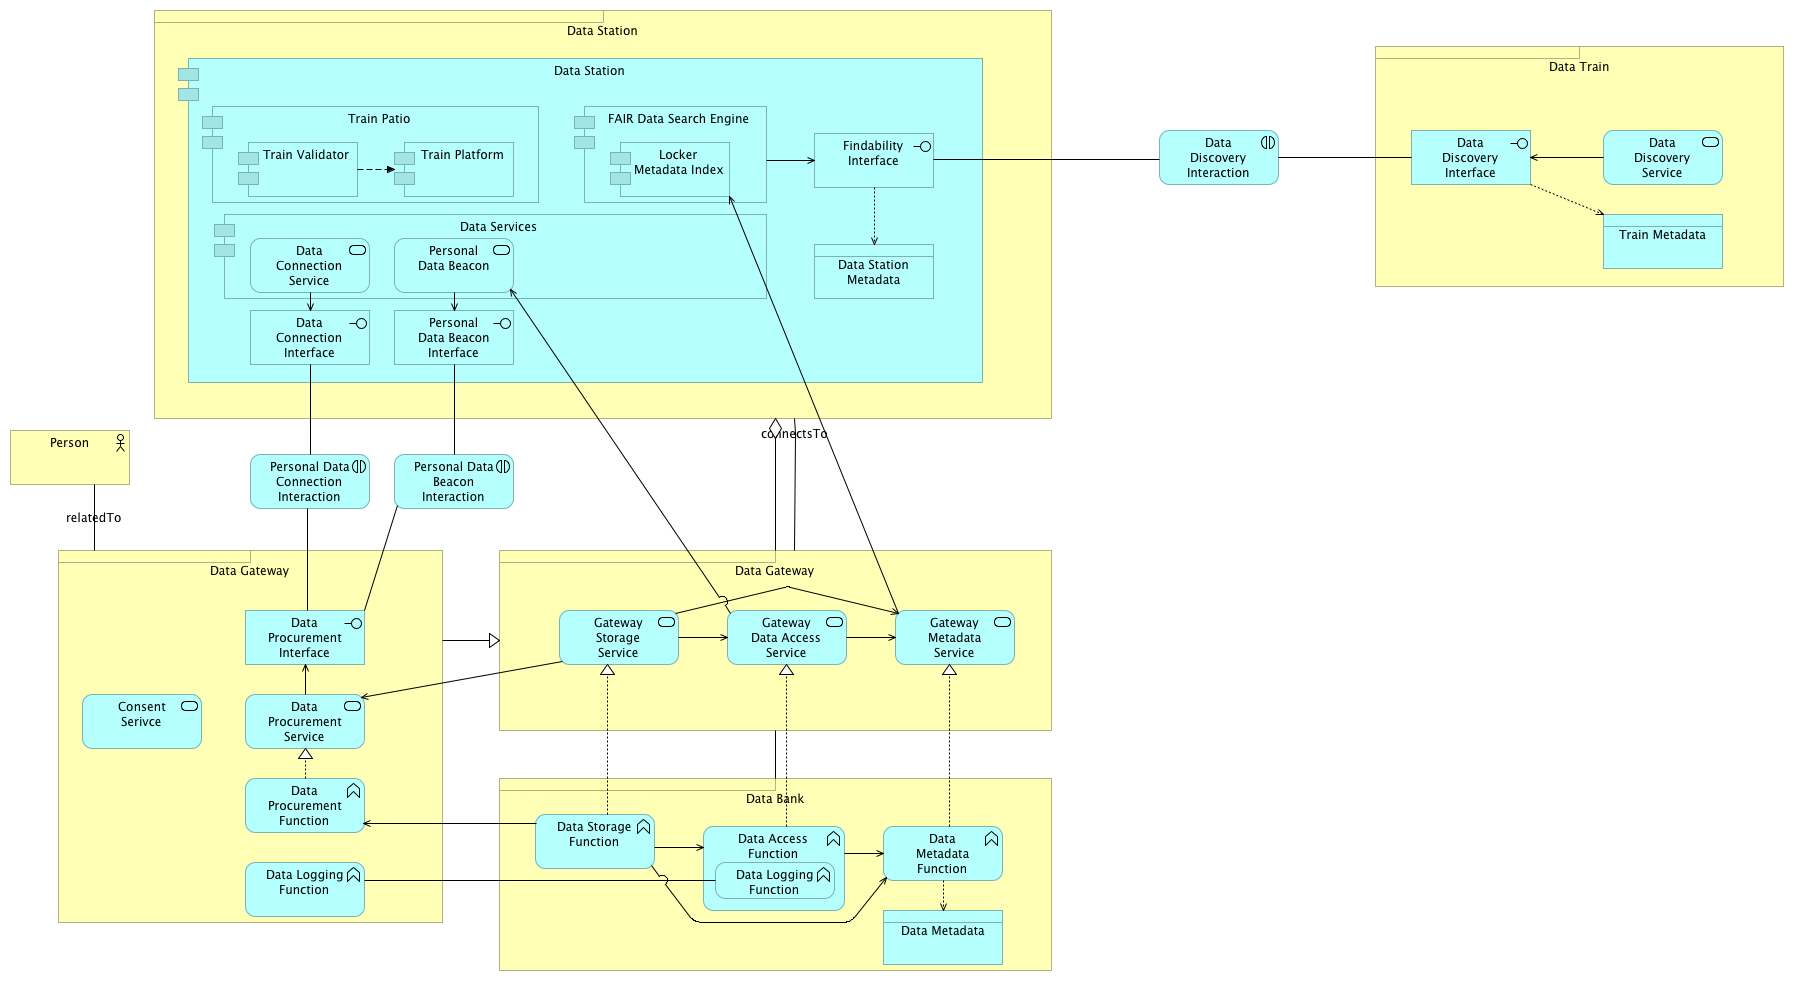
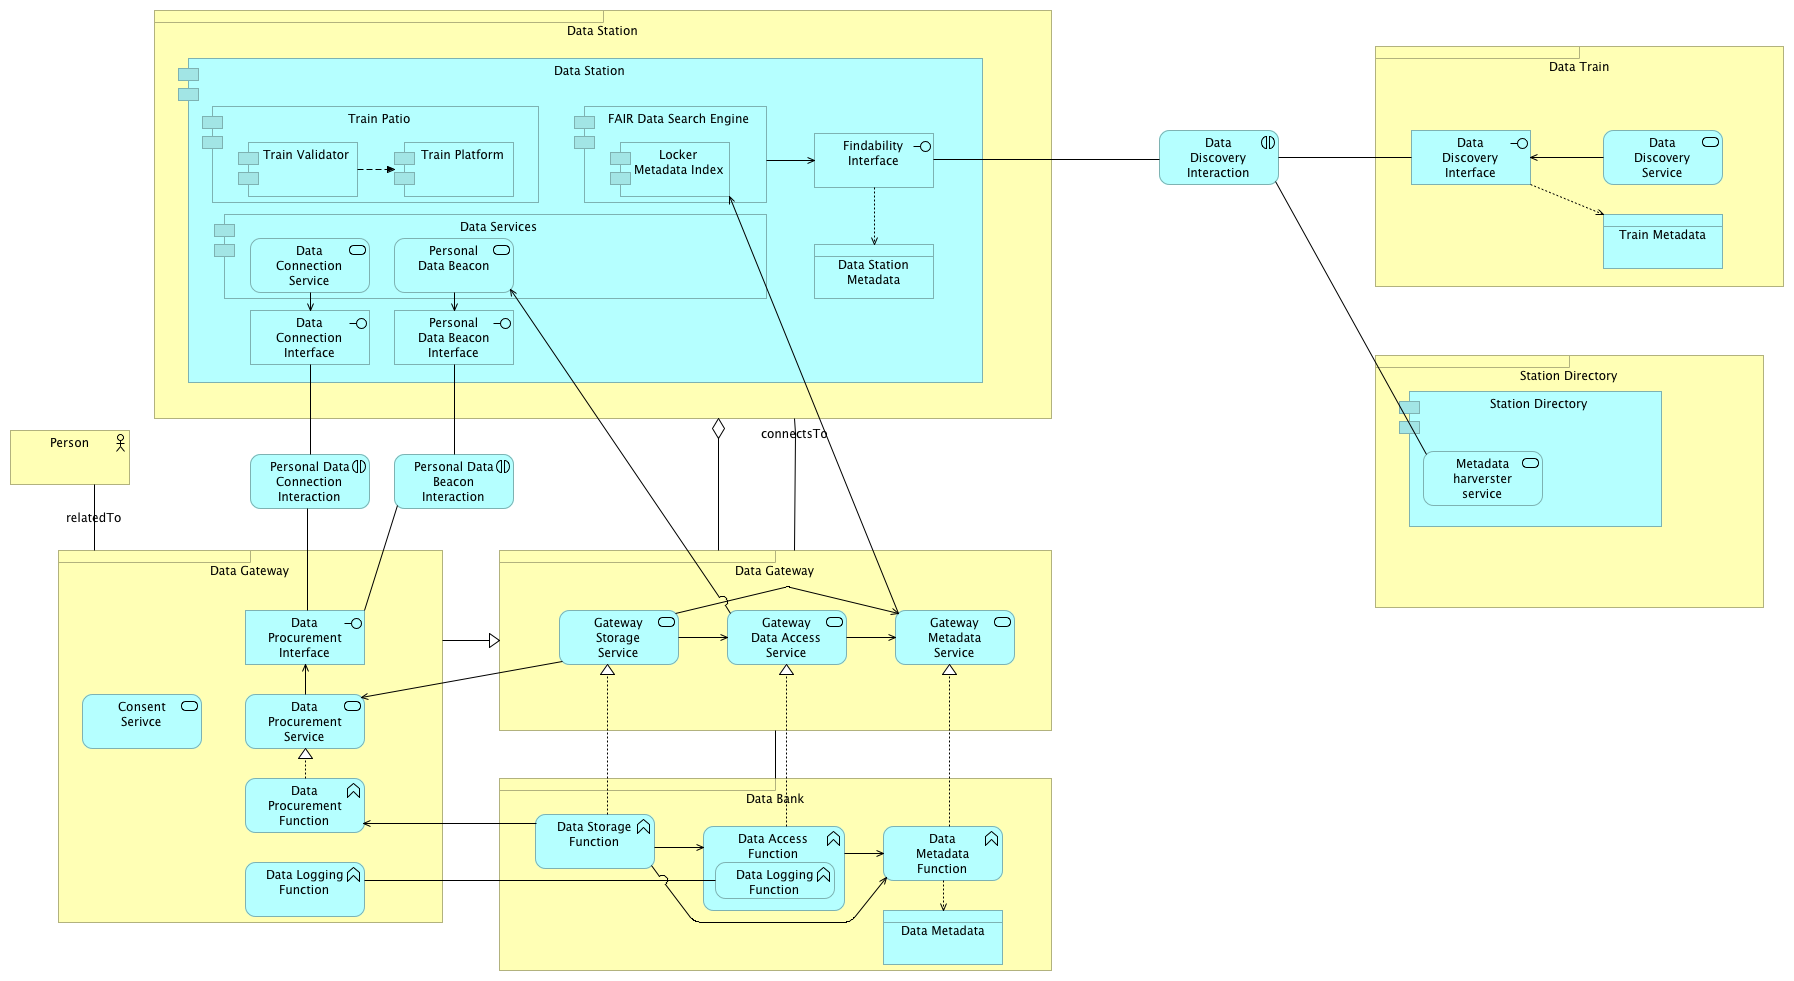
Added Station Directory component, which indexes the metadata of all Data Stations. Added the Train in the Overview view.

Changed region(s): [[0.7492, 0.3364, 0.9989, 0.6422]]

diff --git a/docs/index.html b/docs/index.html
@@ -74,6 +74,8 @@
 													<li class="tree-element"><a href="18975096/elements/b77b827f-7911-46f6-ac07-5fd40ea79f01.html" target="element"> Person </a></li>
 													<li class="tree-element"><a href="18975096/elements/a9bf6516-f5cb-45e1-b8aa-5176f3e6b6ac.html" target="element"> Individual </a></li>
 													<li class="tree-element"><a href="18975096/elements/7a7bc2fb-1184-4866-b09d-8d2767db0e39.html" target="element"> Organization </a></li>
+													<li class="tree-element"><a href="18975096/elements/18199ac6-f56e-410a-8998-632ff5206b83.html" target="element"> Train </a></li>
+													<li class="tree-element"><a href="18975096/elements/7a3dba25-63f0-4d48-bc35-c40f99dd6f59.html" target="element"> Station Directory </a></li>
 
 									</ul>
 								</li>
@@ -119,6 +121,8 @@
 													<li class="tree-element"><a href="18975096/elements/0ca65824-3f4d-46b8-8a5d-51b9d7eab5b5.html" target="element"> Data Logging Function </a></li>
 													<li class="tree-element"><a href="18975096/elements/c86b78a3-92ca-4c30-be73-12e46e800ec8.html" target="element"> Consent Serivce </a></li>
 													<li class="tree-element"><a href="18975096/elements/9cad01f8-9d59-44f8-b6b6-eb078401e0a8.html" target="element"> Data Logging Function </a></li>
+													<li class="tree-element"><a href="18975096/elements/a9479872-1a71-4880-8bd9-1656401d77b0.html" target="element"> Station Directory </a></li>
+													<li class="tree-element"><a href="18975096/elements/da94157c-d06b-48f5-8b85-5fe8aaf5124c.html" target="element"> Metadata harverster service </a></li>
 
 									</ul>
 								</li>
@@ -476,6 +480,26 @@
 															owner
 														(Data Gateway - Individual) 
 													</a></li>
+													<li class="tree-element"><a href="18975096/elements/27352bcf-d7f0-49c3-b37f-3226e21d4105.html" target="element">
+															visits
+														(Train - Data Station) 
+													</a></li>
+													<li class="tree-element"><a href="18975096/elements/0ffd2520-fb2f-4c2e-985e-f1d41b450948.html" target="element">
+															owner
+														(Train - Data Consumer) 
+													</a></li>
+													<li class="tree-element"><a href="18975096/elements/3b7cca8d-d181-49bb-b4a7-923afe4492fc.html" target="element">
+															<span class="i18n-elementtype-RealizationRelationship"></span>
+														(Station Directory - Station Directory) 
+													</a></li>
+													<li class="tree-element"><a href="18975096/elements/536baa3f-5a0f-44e7-88c1-cb4f16b57ba7.html" target="element">
+															<span class="i18n-elementtype-AssignmentRelationship"></span>
+														(Station Directory - Metadata harverster service) 
+													</a></li>
+													<li class="tree-element"><a href="18975096/elements/40ec6dbd-855a-4c7b-b05f-0d9ffc541ae0.html" target="element">
+															<span class="i18n-elementtype-AssociationRelationship"></span>
+														(Metadata harverster service - Data Discovery Interaction) 
+													</a></li>
 
 									</ul>
 								</li>
@@ -486,7 +510,7 @@
 											<li class="tree-element"><a href="18975096/views/dc262ab7.html" target="view"> Stakeholders collaborations </a></li>
 											<li class="tree-element"><a href="18975096/views/ba792f1b.html" target="view"> Overview </a></li>
 											<li class="tree-element"><a href="18975096/views/6e58a049.html" target="view"> Train Station business interaction </a></li>
-											<li class="tree-element"><a href="18975096/views/49a7dba6.html" target="view"> Personal Locker architecture </a></li>
+											<li class="tree-element"><a href="18975096/views/49a7dba6.html" target="view"> PHT architecture </a></li>
 											<li class="tree-element"><a href="18975096/views/cc7aa561-84b8-48c2-946c-d18906b2198b.html" target="view"> Data Station </a></li>
 											<li class="tree-element"><a href="18975096/views/6e323455-c3be-48af-a0d8-d24b7034d748.html" target="view"> Data Gateway </a></li>
 											<li class="tree-element"><a href="18975096/views/27796bab-51c9-45c5-ab29-54ffbba73074.html" target="view"> Data Procurement </a></li>

diff --git a/docs/18975096/views/49a7dba6.html b/docs/18975096/views/49a7dba6.html
@@ -2,7 +2,7 @@
 <html class="frame" lang="en">
 <head>
 	<meta http-equiv="Content-Type" content="text/html;charset=utf-8">
-	<title>Personal Locker architecture</title>
+	<title>PHT architecture</title>
 
 	<!-- JQUERY (use 1.x branch to be compatible with IE 6/7/8) -->
 	<script type="text/javascript" src="../../lib/jquery/js/jquery-1.11.2.min.js"></script>
@@ -20,12 +20,12 @@
 <body>
 	<div class="panel panel-default root-panel">
 		<div class="panel-heading root-panel-heading">
-			<b>Personal Locker architecture</b>
+			<b>PHT architecture</b>
 			(<span class="i18n-viewpoint-"></span>)
 			<a class="glyphicon glyphicon-info-sign" id="hint-viewpoint_" target="hint"></a>
 		</div>
 		<div class="panel-body root-panel-body">
-			<img class="diagram" src="../images/49a7dba6.png" alt="Personal Locker architecture" usemap="#49a7dba6map">
+			<img class="diagram" src="../images/49a7dba6.png" alt="PHT architecture" usemap="#49a7dba6map">
 			<map name="49a7dba6map">
 								<area shape="rect" coords="559,610,679,665" href="../elements/0c1964f8.html"  target="element">
 								<area shape="rect" coords="727,610,847,665" href="../elements/4a003706.html"  target="element">
@@ -75,6 +75,11 @@
 
 						<area shape="rect" coords="499,778,1052,971" href="../elements/e4b6320b-6e30-4e23-ab18-71f546f726e0.html"  target="element">
 						<area shape="rect" coords="10,430,130,485" href="../elements/b77b827f-7911-46f6-ac07-5fd40ea79f01.html"  target="element">
+										<area shape="rect" coords="1423,451,1543,506" href="../elements/da94157c-d06b-48f5-8b85-5fe8aaf5124c.html"  target="element">
+
+								<area shape="rect" coords="1399,391,1662,527" href="../elements/a9479872-1a71-4880-8bd9-1656401d77b0.html"  target="element">
+
+						<area shape="rect" coords="1375,355,1764,608" href="../elements/7a3dba25-63f0-4d48-bc35-c40f99dd6f59.html"  target="element">
 
 			</map>
 			<div role="tabpanel">
@@ -160,6 +165,11 @@
 												<tr><td> <a href="../elements/bd06a4d7-74eb-4bbd-8ec4-59aa8e2234ed.html" target="element"> Data Metadata </a> </td><td class="i18n-elementtype-DataObject"></td></tr>
 										
 										<tr><td> <a href="../elements/b77b827f-7911-46f6-ac07-5fd40ea79f01.html" target="element"> Person </a> </td><td class="i18n-elementtype-BusinessActor"></td></tr>
+										<tr><td> <a href="../elements/7a3dba25-63f0-4d48-bc35-c40f99dd6f59.html" target="element"> Station Directory </a> </td><td class="i18n-elementtype-Product"></td></tr>
+												<tr><td> <a href="../elements/a9479872-1a71-4880-8bd9-1656401d77b0.html" target="element"> Station Directory </a> </td><td class="i18n-elementtype-ApplicationComponent"></td></tr>
+														<tr><td> <a href="../elements/da94157c-d06b-48f5-8b85-5fe8aaf5124c.html" target="element"> Metadata harverster service </a> </td><td class="i18n-elementtype-ApplicationService"></td></tr>
+												
+										
 
 							</tbody>
 						</table>

diff --git a/docs/18975096/views/ba792f1b.html b/docs/18975096/views/ba792f1b.html
@@ -36,6 +36,7 @@
 						<area shape="rect" coords="201,154,371,269" href="../elements/8c4bc857.html"  target="element">
 						<area shape="rect" coords="430,10,550,65" href="../elements/a9bf6516-f5cb-45e1-b8aa-5176f3e6b6ac.html"  target="element">
 						<area shape="rect" coords="694,10,814,65" href="../elements/7a7bc2fb-1184-4866-b09d-8d2767db0e39.html"  target="element">
+						<area shape="rect" coords="226,352,346,407" href="../elements/18199ac6-f56e-410a-8998-632ff5206b83.html"  target="element">
 
 			</map>
 			<div role="tabpanel">
@@ -82,6 +83,7 @@
 										
 										<tr><td> <a href="../elements/a9bf6516-f5cb-45e1-b8aa-5176f3e6b6ac.html" target="element"> Individual </a> </td><td class="i18n-elementtype-BusinessActor"></td></tr>
 										<tr><td> <a href="../elements/7a7bc2fb-1184-4866-b09d-8d2767db0e39.html" target="element"> Organization </a> </td><td class="i18n-elementtype-BusinessActor"></td></tr>
+										<tr><td> <a href="../elements/18199ac6-f56e-410a-8998-632ff5206b83.html" target="element"> Train </a> </td><td class="i18n-elementtype-BusinessObject"></td></tr>
 
 							</tbody>
 						</table>
